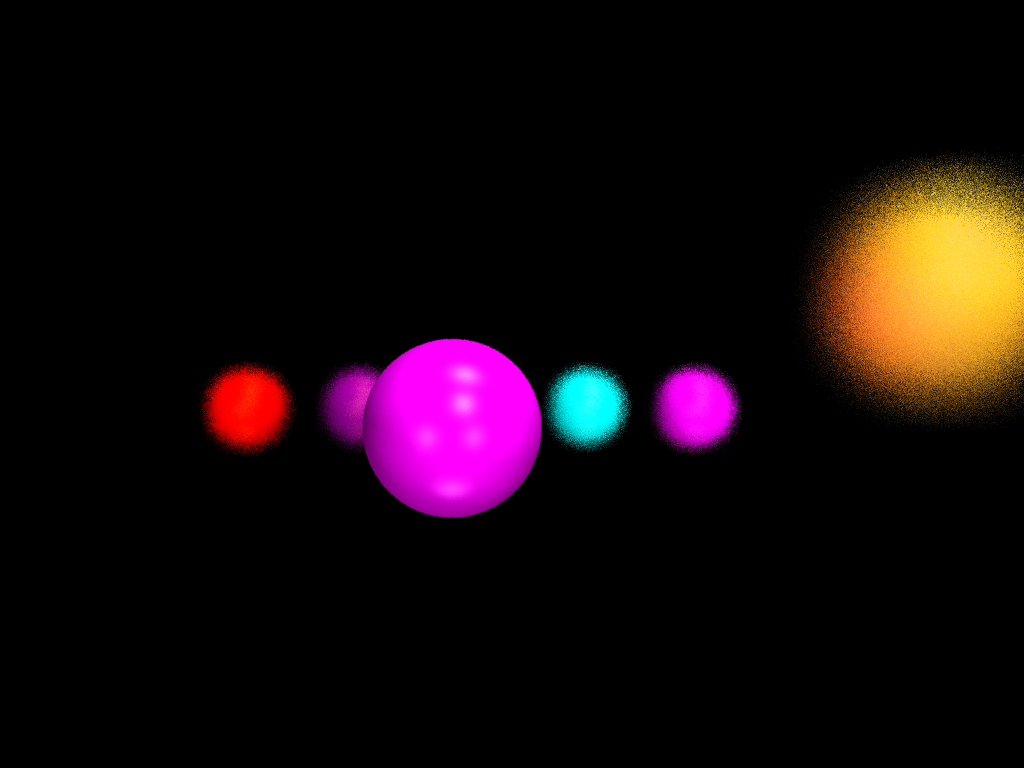
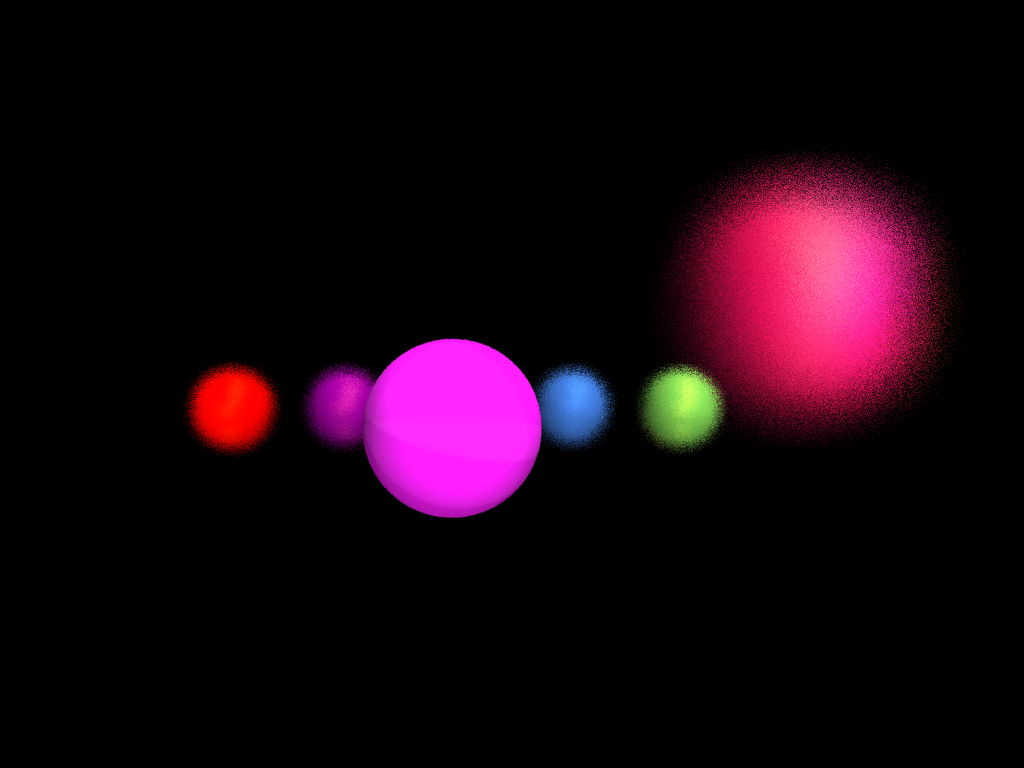
fixing bug

Changed region(s): [[0.1562, 0.1875, 1.0, 0.6875]]

diff --git a/src/raytracer/raytracescene.cpp b/src/raytracer/raytracescene.cpp
@@ -120,7 +120,7 @@ glm::vec3 locComputer(int identifier, float radius, int incrementer){
     ///
     /// \cond set to 1.f for 240 frames, scale appropriately for higer/lower frames
     ///
-    float frameCoeff = 2.f;
+    float frameCoeff = 1.f;
 
     float offset= M_PI/16.f;
 
@@ -290,8 +290,15 @@ glm::vec4 RayTraceScene::traceRay(RayTracer::Ray  worldRay, bool doPrint,RayTrac
 
         //animate shininess here
         if(closestObject.i == 1){
-        //closestObject.shape.primitive.material.shininess *= 0.f;
+        closestObject.shape.primitive.material.shininess *= abs(7.5f * sin(0.5f * translate/240.f * M_PI));;
         }
+
+        if(closestObject.i == 2){
+        closestObject.shape.primitive.material.shininess = abs(7.5f * cos(0.5f * translate/240.f * M_PI));
+
+        }
+
+
 
         glm::vec4 directIllumination = RayTraceScene::phong(pos, normal, - worldRay.dir, closestObject.shape.primitive.material, MetaData.lights, getGlobalData(), doPrint, scene, texture);
         glm::vec4 indirectIllum(0.f);

diff --git a/src/main.cpp b/src/main.cpp
@@ -117,7 +117,7 @@ int main(int argc, char *argv[])
             }
 
             else if(animate){
-                rtConfig.increment = 480;
+                rtConfig.increment = i;
             }
 
             else if(appertureVar){
